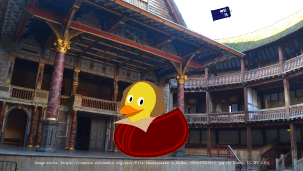
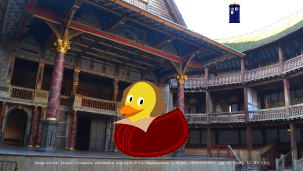
globe: smoother motion of tardis

Changed region(s): [[0.6832, 0.0, 0.802, 0.1462]]

diff --git a/samcarter/globe/globe.tex b/samcarter/globe/globe.tex
@@ -22,16 +22,14 @@
       markings,
       % Thanks a lot to @marmot for this tikzmagick https://topanswers.xyz/tex?q=387
       mark=at position \insertoverlaynumber/450 with {
-        \path (-0.1cm,0) coordinate (aux0) (0.1cm,0) coordinate(aux1)
-   	(0,0) coordinate(aux2);
-   	\pgftransformreset
-   	\path let \p1=($(aux1)-(aux0)$), \n1={atan2(\y1,\x1)} in
-   	(aux2) node[rotate=\n1-90]{\includegraphics[width=0.6cm]{tardis.pdf}};
+        \path (-0.1cm,0) coordinate (aux0) (0.1cm,0) coordinate(aux1) (0,0) coordinate(aux2);
+        \pgftransformreset
+   	    \path let \p1=($(aux1)-(aux0)$), \n1={atan2(\y1,\x1)} in  	(aux2) node{\includegraphics[width=0.6cm]{tardis.pdf}};
       }
-    }
+    },
   ]
 
-    \path[xshift=-5cm,yshift=4cm,postaction=decorate] (9.6868, 0.7619).. controls (10.6306, 0.2913) and (10.5318, 0.1447) .. (11.7596, -1.0429).. controls (12.9334, -2.1783) and (14.9244, -0.9182) .. (16.3479, -0.77).. controls (17.7023, -0.6291) and (17.3324, -0.2652) .. (16.201, -0.2413).. controls (15.0637, -0.2172) and (14.411, -2.2785) .. (16.065, -1.5874).. controls (17.5682, -0.9592) and (18.7936, -1.2069) .. (20.4305, -1.7649).. controls (20.9644, -1.9469) and (21.5259, -2.1863) .. (22.1021, -2.1016);
+    \path[postaction=decorate,xshift=0.5cm] (4.6867, 4.7618).. controls (5.6305, 4.2913) and (5.5317, 4.1446) .. (6.7595, 2.9571).. controls (8.2313, 1.5334) and (12.751, 3.1505) .. (10.3925, 4.1896).. controls (8.6234, 4.8242) and (8.0578, 1.7667) .. (11.0649, 2.4126).. controls (12.568, 3.0408) and (13.7934, 2.7931) .. (15.4303, 2.2351).. controls (15.9642, 2.0531) and (16.5257, 1.8137) .. (17.1019, 1.8984);
 
     \node at (current page.center) {\includegraphics[width=\paperwidth]{Shakespeare's_Globe_(39593782581)}};
 
